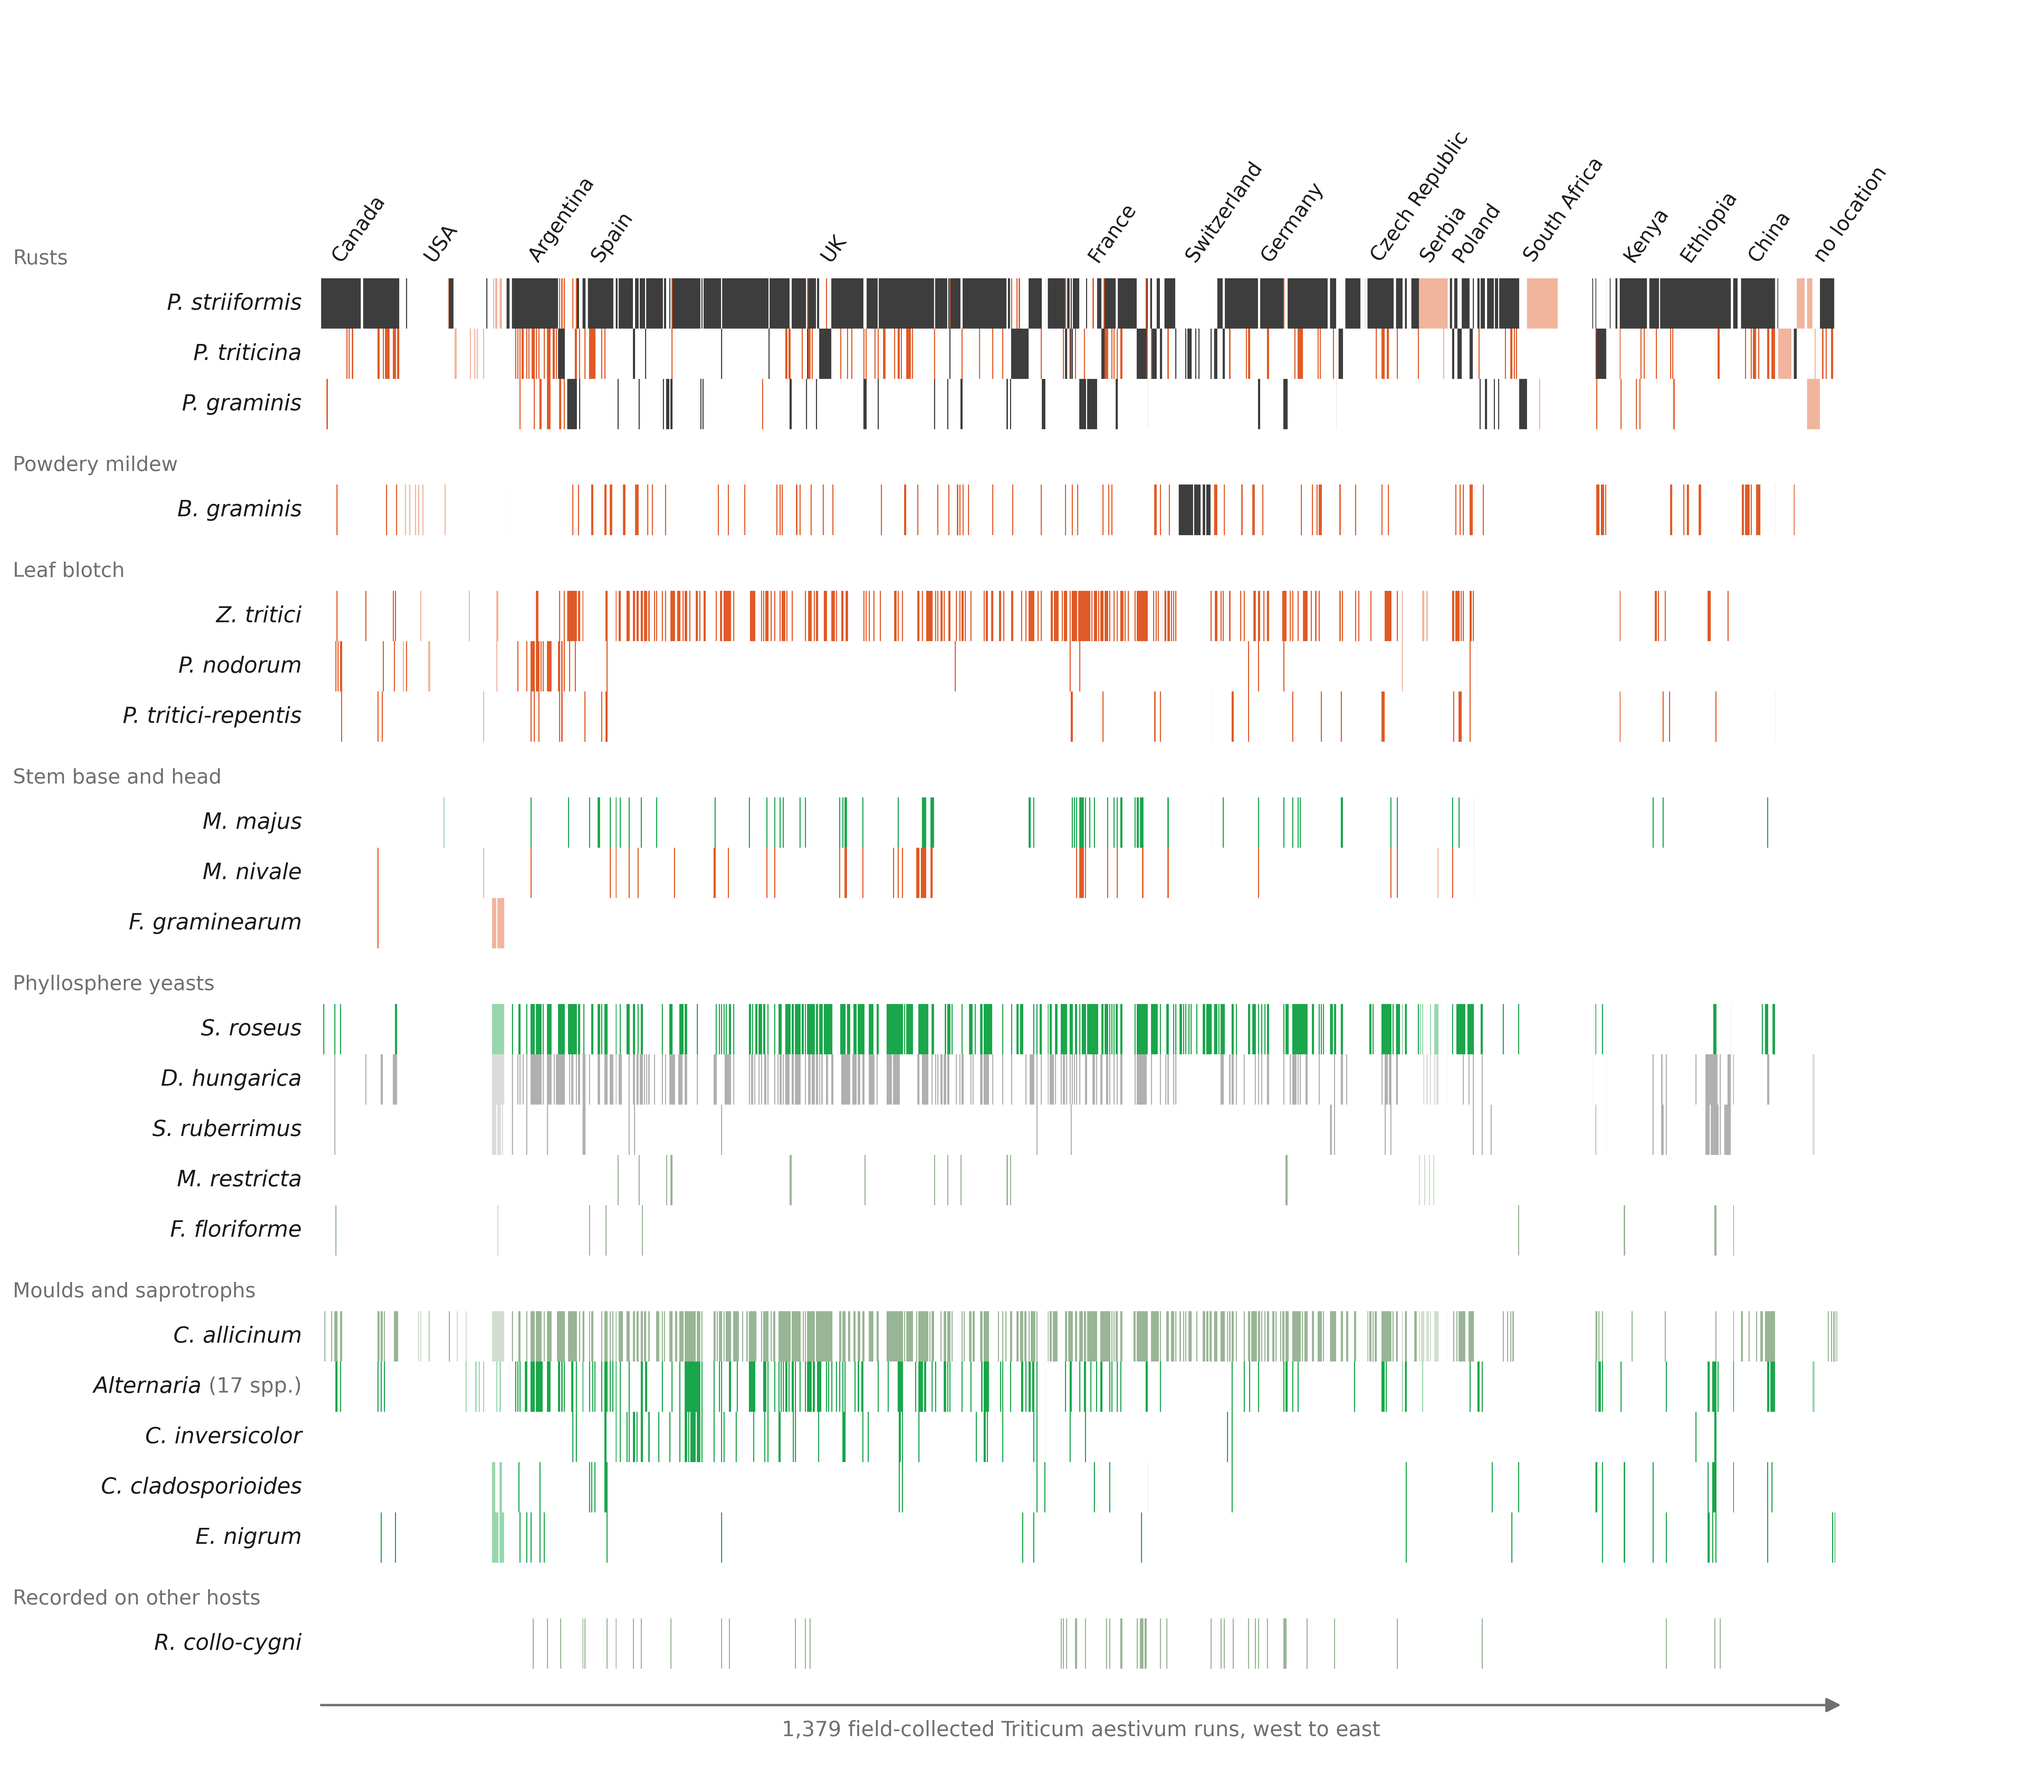
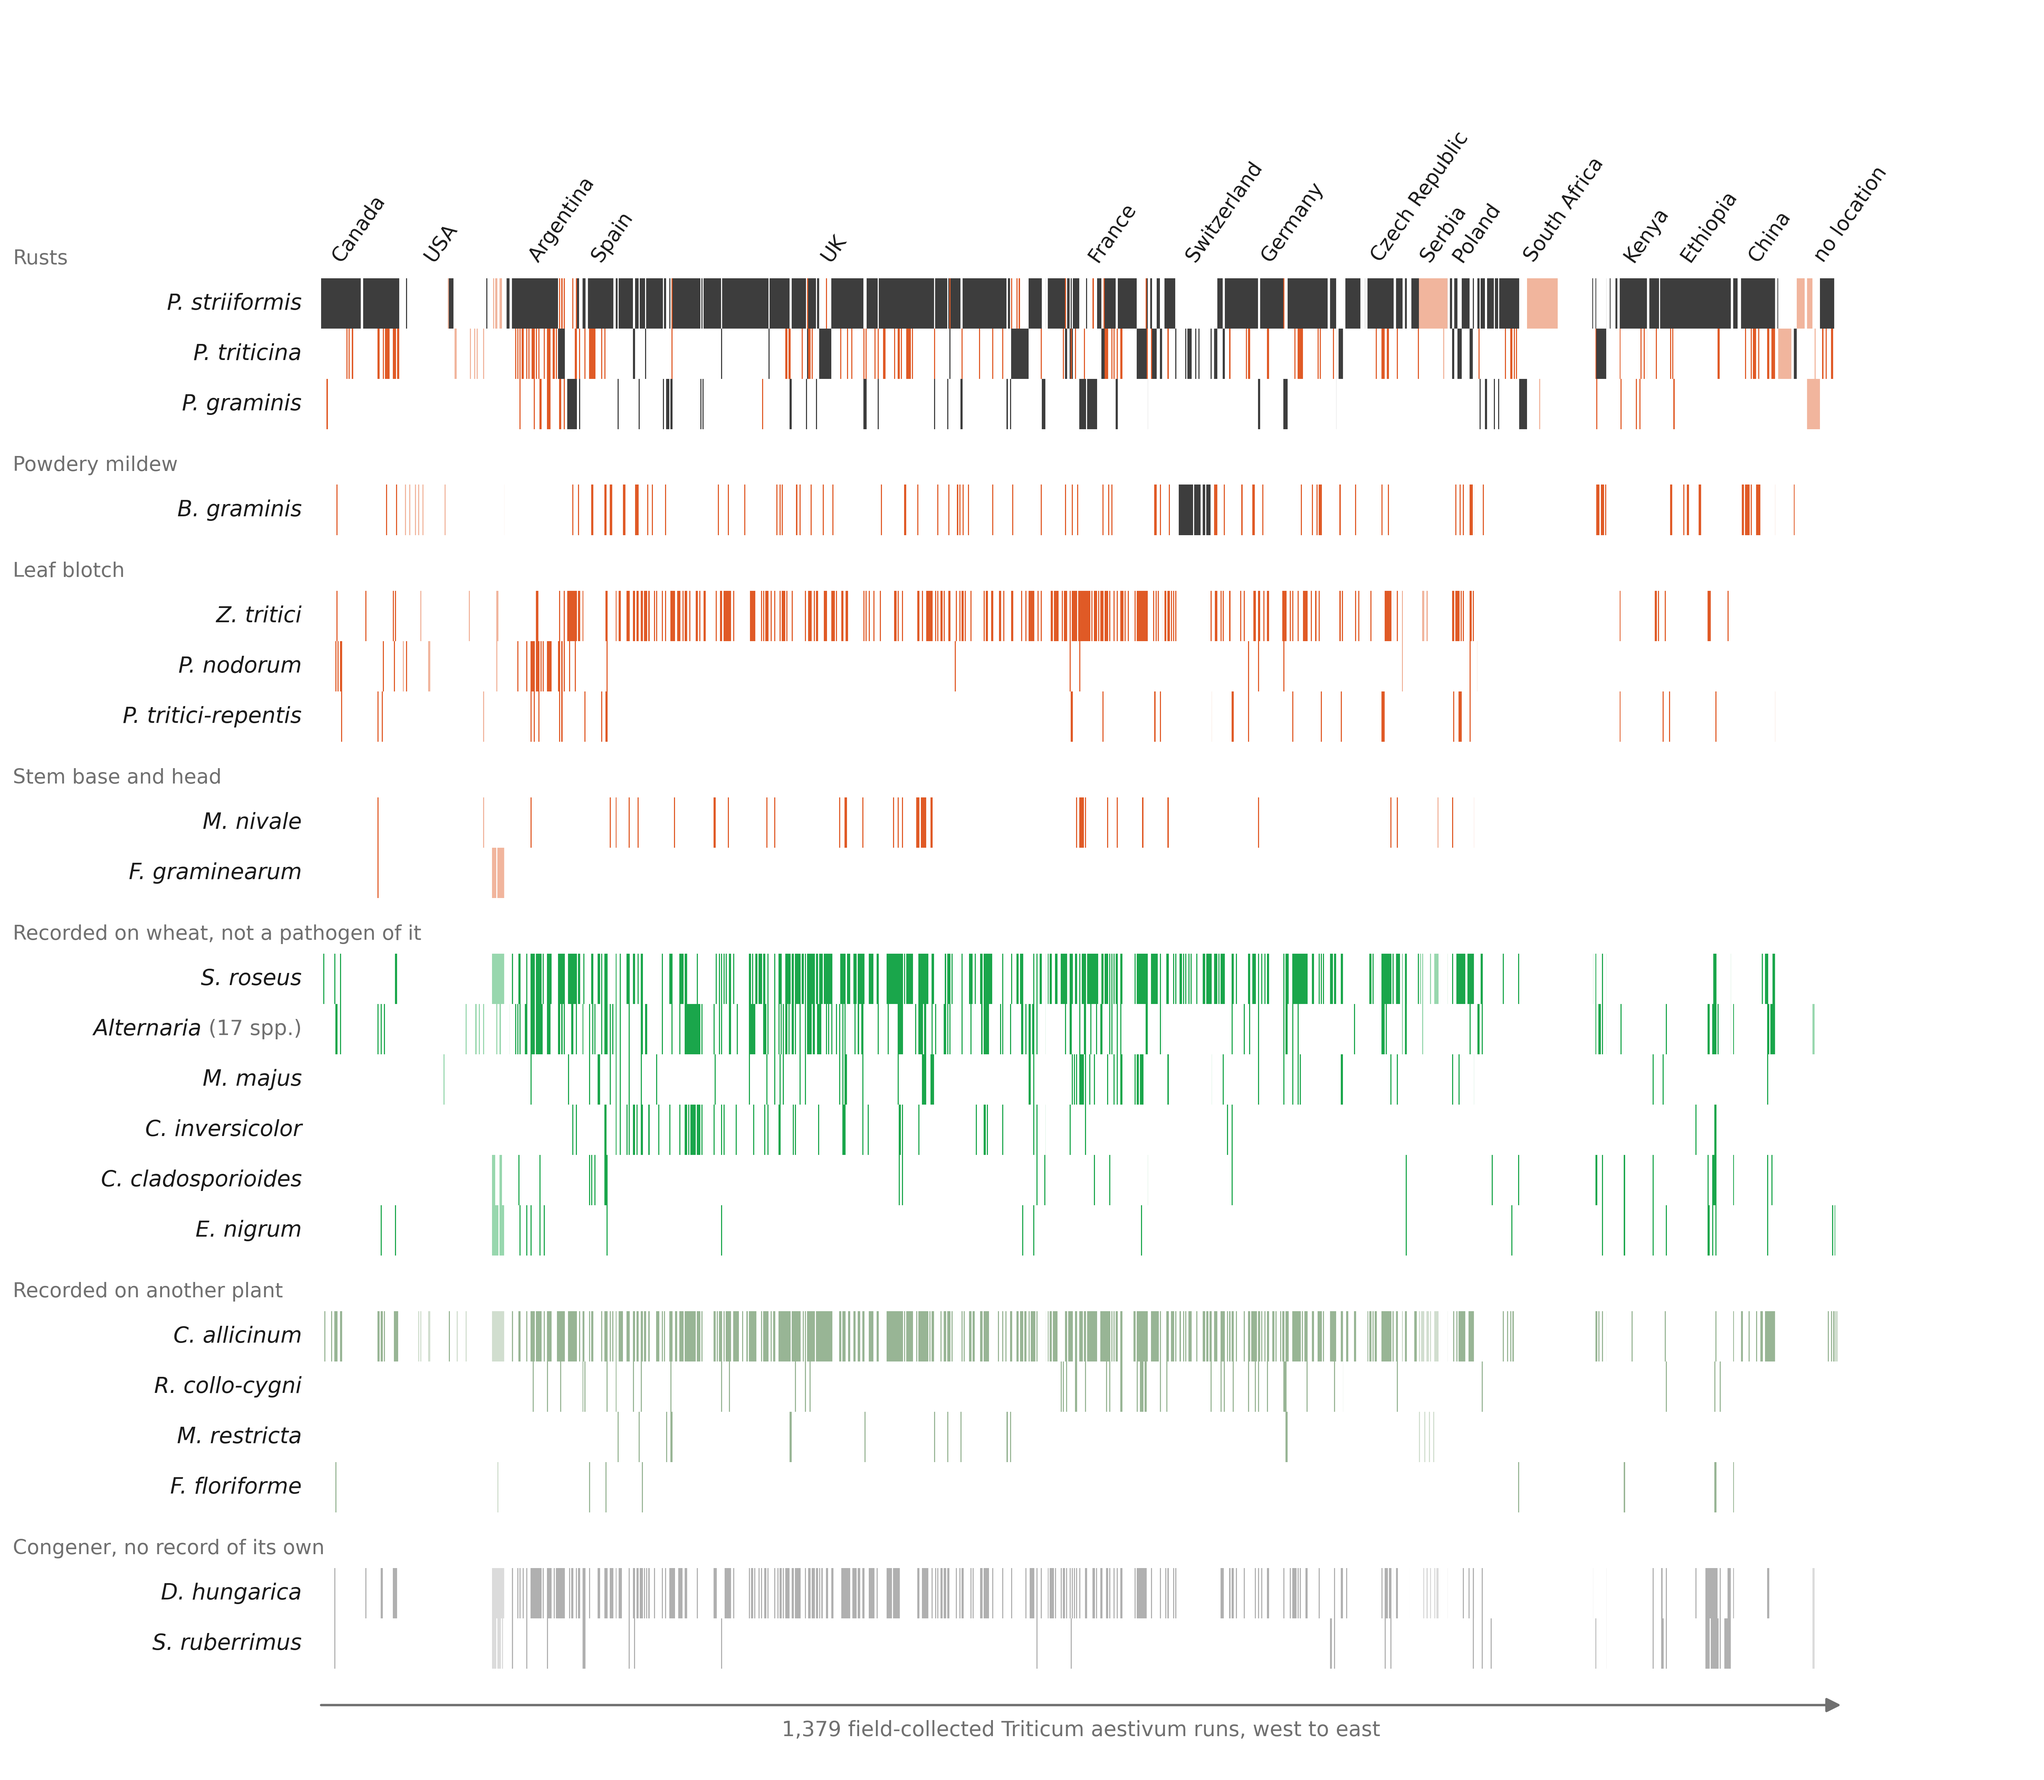
03_classify: band wheat pathogens by disease, everything else by matrix slot
Two banding rules, because the two halves of the panel answer to different
things. A wheat pathogen is banded by the DISEASE it causes, which is the
distinction a plant pathologist makes and which no column of S3 carries, so it
stays authored in pathogen_groups.tsv. Everything else is banded by its matrix
slot, read straight off S3: the band then says exactly what the colour says,
no category has to be invented, and no taxon is placed by opinion. The three
resident bands I had authored (phyllosphere yeasts, moulds and saprotrophs,
recorded on other hosts) were my groupings, not the data's, and are gone.

This also retracts a judgement call. I had moved Microdochium majus into Stem
base and head because it is a real Microdochium patch agent; under the slot
rule it sits with the taxa USDA records on wheat, because PHI-base does not
score it. The disagreement belongs in the figure rather than in my placement,
and the caption states it with the evidence: called without M. nivale in 43 of
its 76 runs and at 1.46x its coverage where both occur, so the gap is in the
label, not the call.

diff --git a/release/03_classify/figures/samples/plot_samples.py b/release/03_classify/figures/samples/plot_samples.py
@@ -72,6 +72,24 @@ DECLARED_COLOUR = "#3d3d3d"     # the study reported it; the one state that is n
 # two have to be translated, not assumed equal -- the panel raised a KeyError on the first
 # wheat pathogen it met, which is the good failure mode for a mismatch like this.
 PHI_KEY = {"none": "none", "plant_pathogen": "vagrant", "wheat_pathogen": "wheat_path"}
+
+# TWO BANDING RULES, because the two halves of the panel answer to different things.
+# A WHEAT PATHOGEN is banded by the DISEASE it causes, which is the distinction a plant
+# pathologist makes and which no column of S3 carries, so it is authored in
+# pathogen_groups.tsv. Everything else is banded by its MATRIX SLOT, read straight off S3:
+# the band then says exactly what the colour says, nobody has to invent a category, and a
+# taxon cannot be placed by opinion. Microdochium majus is the case that forced this -- it
+# is a real Microdochium patch agent, but PHI-base does not score it, so under the slot rule
+# it sits with the other taxa USDA records on wheat rather than where a reader of the
+# literature would file it. That disagreement is the label's, and the figure should show it
+# rather than paper over it.
+SLOT_BAND = {
+    ("wheat", "none"):       (5, "Recorded on wheat, not a pathogen of it"),
+    ("wheat", "vagrant"):    (6, "Pathogen of another plant, recorded on wheat"),
+    ("plant", "none"):       (7, "Recorded on another plant"),
+    ("plant", "vagrant"):    (8, "Pathogen of another plant"),
+    ("congener", "none"):    (9, "Congener, no record of its own"),
+}
 LUM_CEILING = 0.70
 SPILL_RATIO = 0.25      # never-alone AND below this share of the congener's coverage
 SPILL = "Zymoseptoria brevis"   # what the rule catches here; the caption reads it from this
@@ -274,18 +292,23 @@ def load():
     for t in spill:
         del hit[t]
 
-    missing = sorted(t for t in hit if len(hit[t]) >= MIN_RUNS and t not in grp)
+    is_wp = lambda t: mrow[t][1] == "wheat_path"
+    missing = sorted(t for t in hit
+                     if len(hit[t]) >= MIN_RUNS and is_wp(t) and t not in grp)
     if missing:
-        raise SystemExit(f"{GRP} has no group for: {', '.join(missing)}. Add them rather "
-                         f"than letting the panel drop a pathogen it detected.")
+        raise SystemExit(f"{GRP} has no disease band for the wheat pathogen(s): "
+                         f"{', '.join(missing)}. Add them rather than letting the panel "
+                         f"drop a pathogen it detected.")
     # band first, then prevalence within the band
     # A collapsed genus must have its OWN row in the table. Inheriting the band from
     # whichever species sorted first was order-dependent and silently wrong.
     for t in hit:
-        if len(hit[t]) >= MIN_RUNS and len(collapsed_of[t]) > 1 and t not in grp:
+        if (len(hit[t]) >= MIN_RUNS and len(collapsed_of[t]) > 1 and is_wp(t)
+                and t not in grp):
             raise SystemExit(f"{GRP} collapses {t} to a genus but has no row for the genus "
-                             f"itself. Add one; the band must be chosen, not inherited.")
-    band = lambda t: grp[t][:2]
+                             f"itself. Add one; the disease band must be chosen, not "
+                             f"inherited.")
+    band = lambda t: grp[t][:2] if is_wp(t) else SLOT_BAND[mrow[t]]
     taxa = sorted((t for t in hit if len(hit[t]) >= MIN_RUNS),
                   key=lambda t: (band(t)[0], -len(hit[t]), t))
     dropped = {t: len(v) for t, v in sorted(hit.items(), key=lambda kv: (-len(kv[1]), kv[0]))

diff --git a/release/03_classify/figures/samples/caption.py b/release/03_classify/figures/samples/caption.py
@@ -109,6 +109,11 @@ def numbers():
          if covs[SPILL_PARTNER][r]])
     ci = "Cladosporium inversicolor"
     sibs = [t for t in byt if t != ci and genus[t] == genus[ci]]
+    mm, mn = "Microdochium majus", "Microdochium nivale"
+    n["mm_runs"] = len(byt[mm])
+    n["mm_alone"] = len(byt[mm] - byt[mn])
+    n["mm_ratio"] = statistics.median(
+        [covs[mm][r] / covs[mn][r] for r in byt[mm] & byt[mn] if covs[mn][r]])
     n["ci_alone"] = len(byt[ci] - set().union(*(byt[t] for t in sibs)))
 
     n["alt_cv"] = statistics.median(cv[COLLAPSED])
@@ -174,9 +179,21 @@ def main():
         f"{n['countries']} countries are represented across {n['projects']} BioProjects, "
         f"{n['geo']:,} runs carry coordinates and {n['noloc']} carry no location and sit in "
         f"the block at the right. Rows are every fungus called in at least {MIN_RUNS} runs, "
-        f"banded by the kind of disease it causes, or by what it is where it causes none. "
-        f"The plant host is not drawn, because every library has one and no study declares "
-        f"it as a pathogen.",
+        f"banded by two different rules, because the two halves of the panel answer to "
+        f"different things. A wheat pathogen is banded by the DISEASE it causes, which is "
+        f"the distinction a plant pathologist makes and which no column of the reference "
+        f"table carries. Everything else is banded by its SLOT IN THE REFERENCE MATRIX, "
+        f"read straight off that table, so the band says exactly what the colour says and "
+        f"no taxon is placed by opinion. The plant host is not drawn, because every library "
+        f"has one and no study declares it as a pathogen.",
+        "",
+        f"The slot rule puts Microdochium majus with the taxa recorded on wheat rather than "
+        f"with the stem-base diseases, and that disagreement is worth reading rather than "
+        f"smoothing. It is a genuine agent of Microdochium patch, but PHI-base does not "
+        f"score it, so the label says resident. The reads do not: it is called without "
+        f"M. nivale in {n['mm_alone']} of its {n['mm_runs']} runs and at "
+        f"{n['mm_ratio']:.2f} times its coverage where both occur, which is a detection in "
+        f"its own right. The gap is in the label, not the call.",
         "",
         f"The resident layer is the larger part of what is there: {n['n_resident_taxa']} "
         f"resident taxa are called, {n['n_resident_drawn']} of them often enough for a row, "
